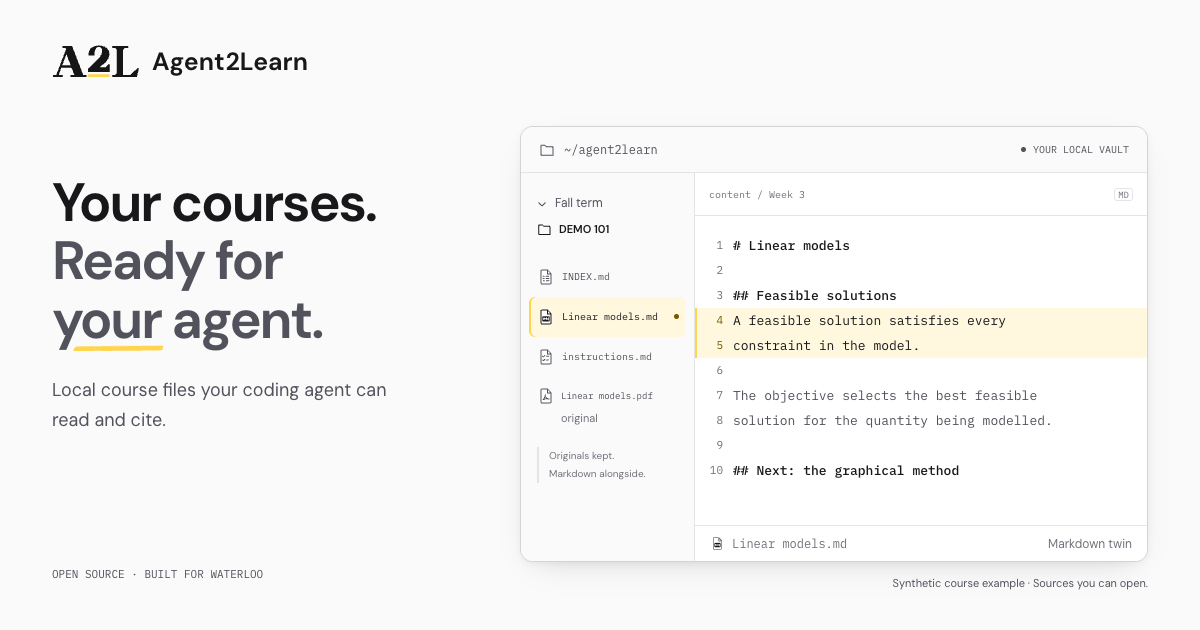
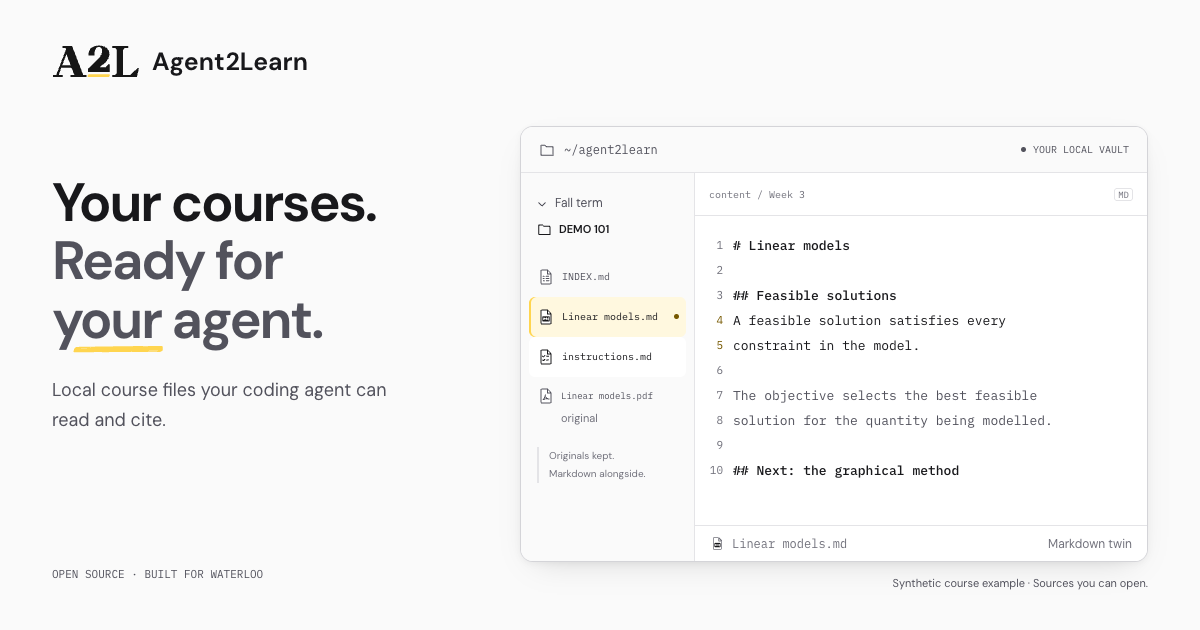
Sharpen the hero marker and refine its draw

Changed region(s): [[0.555, 0.4825, 0.9558, 0.573], [0.0617, 0.5429, 0.1233, 0.573], [0.4317, 0.5429, 0.4625, 0.573]]

diff --git a/frontend/README.md b/frontend/README.md
@@ -66,7 +66,7 @@ The landing page starts with the system preference and has an explicit light/dar
 
 The layout uses black, white, and layered zinc grays, with the logo's **#FFD54F** gold reserved for primary actions, the hero marker, and source/navigation indicators. Neutral text stays readable over faint gold citation and active-page backgrounds. Links use a quiet gold underline; small gold text and focus rings use darker `--gold-ink` in the light theme for contrast. The shared tokens live in `shared.css`, with light and dark variants. The charcoal agent section keeps a consistent treatment in both themes.
 
-The hero's marker is a small native SVG with uneven ink edges and chisel-cut ends. Its reveal draws left to right once, in 720ms after a brief pause and font readiness. The artwork stays the same size throughout, so drawing neither stretches its texture nor shifts the headline. A hidden tab pauses the draw; returning resumes it. Once complete, it stays still, including after scrolling, hovering, or changing the theme. Reduced motion and JavaScript-disabled pages show the complete stroke immediately. Documentation uses simple gold rules and source highlights, without replaying the decorative marker.
+The hero's marker is a small native SVG with solid ink, uneven edges, chisel-cut ends, and two fine nib gaps. Its reveal draws left to right once, in 640ms after a brief pause and font readiness. A short touch-down leads into a steady sweep and clean lift-off. The artwork stays the same size throughout, so drawing neither stretches its texture nor shifts the headline. A hidden tab pauses the draw; returning resumes it. Once complete, it stays still, including after scrolling, hovering, or changing the theme. Reduced motion and JavaScript-disabled pages show the complete stroke immediately. Documentation uses simple gold rules and source highlights, without replaying the decorative marker.
 
 File selection uses native radio inputs, prompt and mobile vault expansion use native disclosure controls, and the documentation uses Starlight's accessible search, tabs, navigation, and theme selector. Installation commands and fenced examples share Expressive Code's neutral panels and always-visible copy controls. Scrollable examples have distinct accessible names. Page and agent-prompt copy failures show a local recovery message. Reduced-motion preferences are respected.
 
